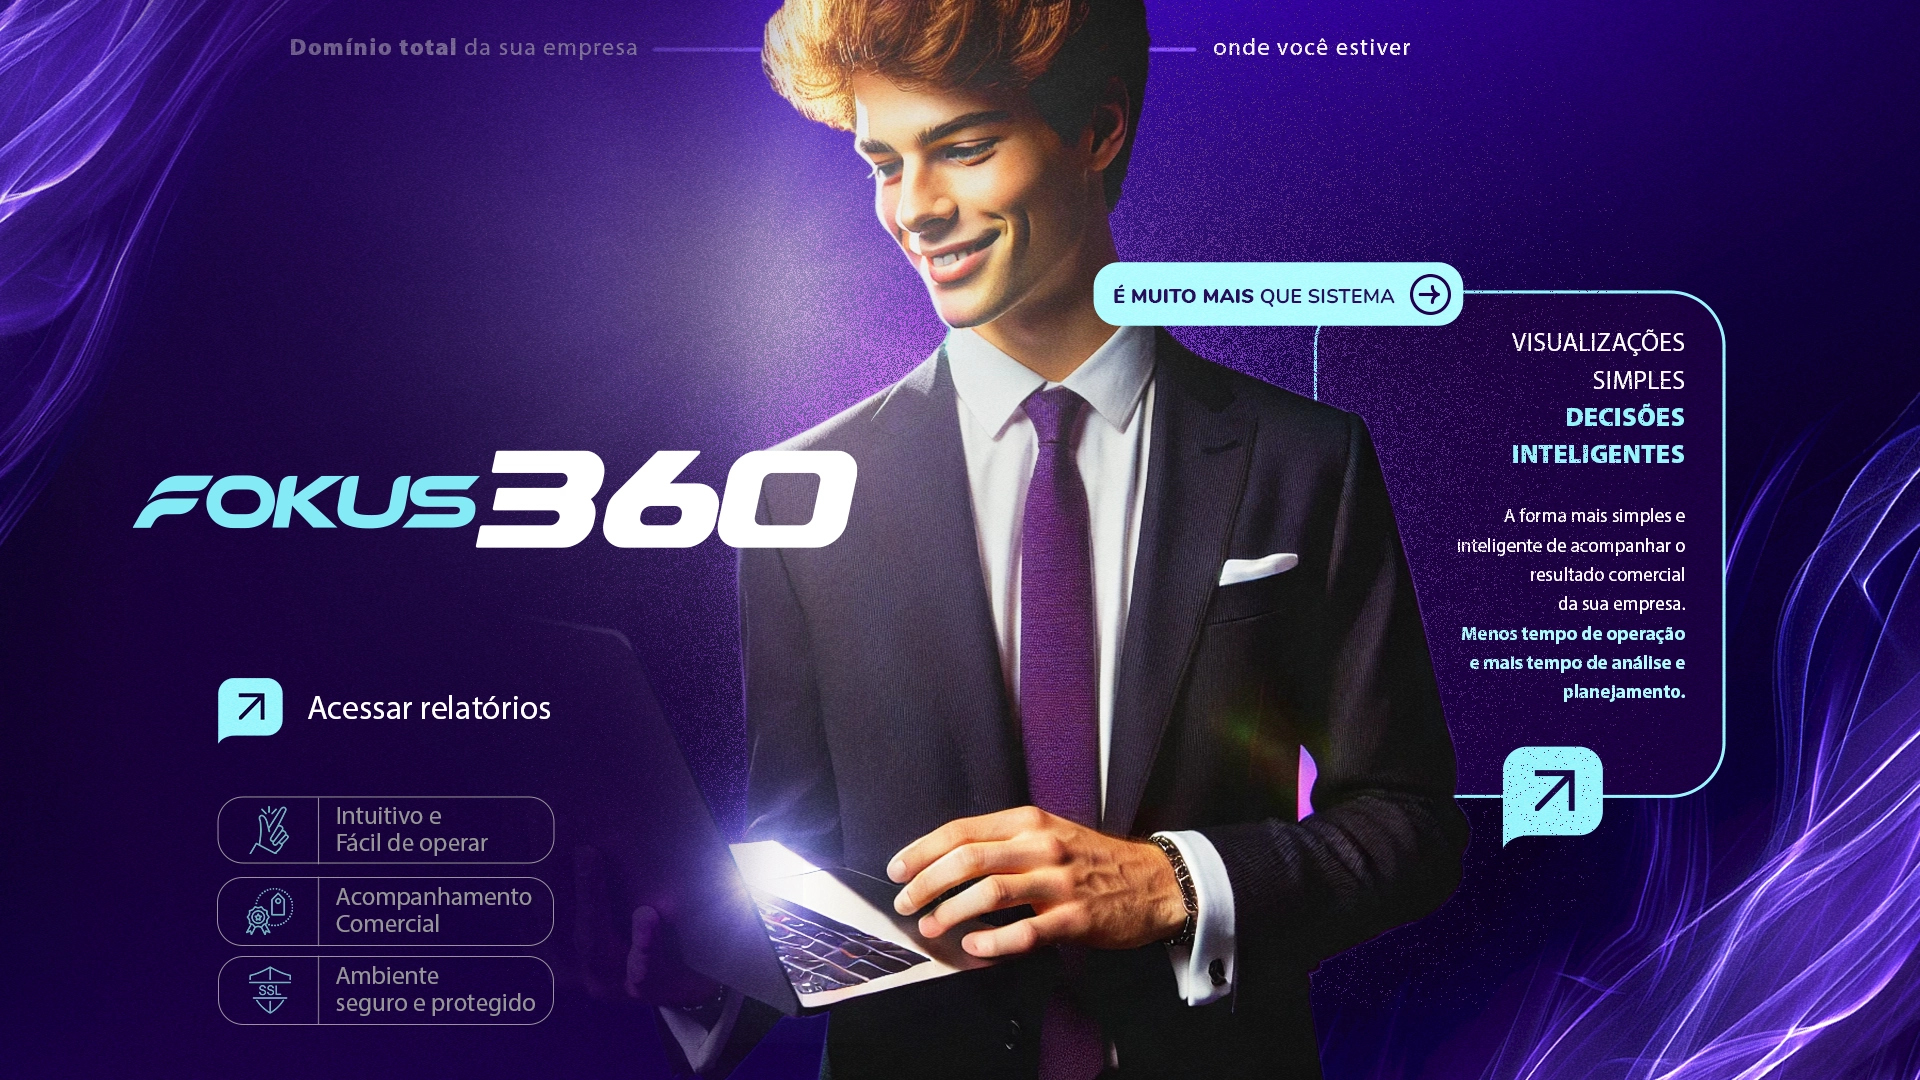
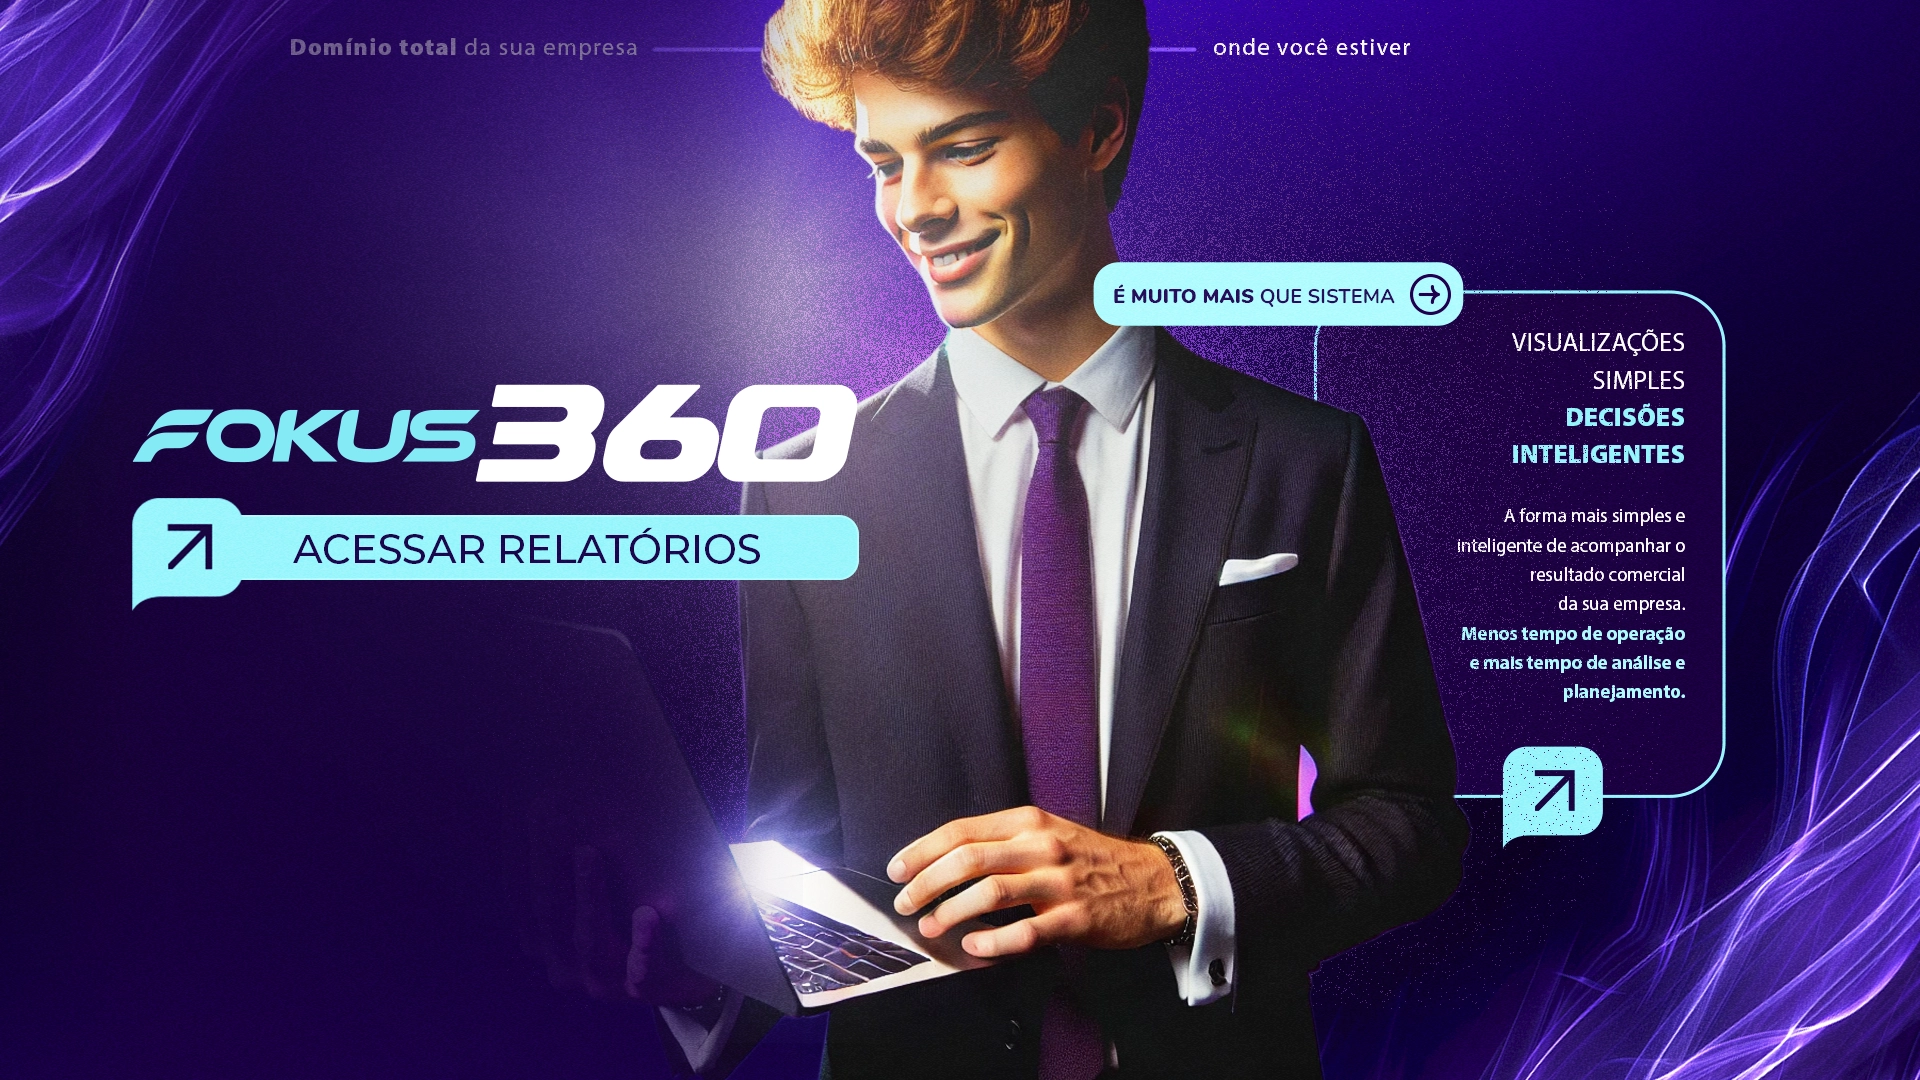
correção capa home

Changed region(s): [[0.0625, 0.3361, 0.4688, 0.5806], [0.125, 0.7333, 0.2812, 0.9472], [0.0938, 0.6111, 0.2812, 0.7028]]

diff --git a/src/scenes/home/index.jsx b/src/scenes/home/index.jsx
@@ -67,9 +67,7 @@ const Home = () => {
           <Box
             sx={{
               position: "absolute",
-              top: "55%", // Posição para "Novo Projeto"
-              left: "10%",
-              height: "100px",
+              top: "45%", // Posição para "Novo Projeto" 
             }}
           >
             <Link
@@ -79,9 +77,9 @@ const Home = () => {
                 color: "transparent",
                 textDecoration: "none",
                 fontWeight: "bold",
-                marginLeft: "8px",
+                marginLeft: "60px",
                 alignContent: "center",
-                paddingRight: "300px",
+                paddingRight: "500px",
                 paddingBottom: "150px",
               }}
             >
